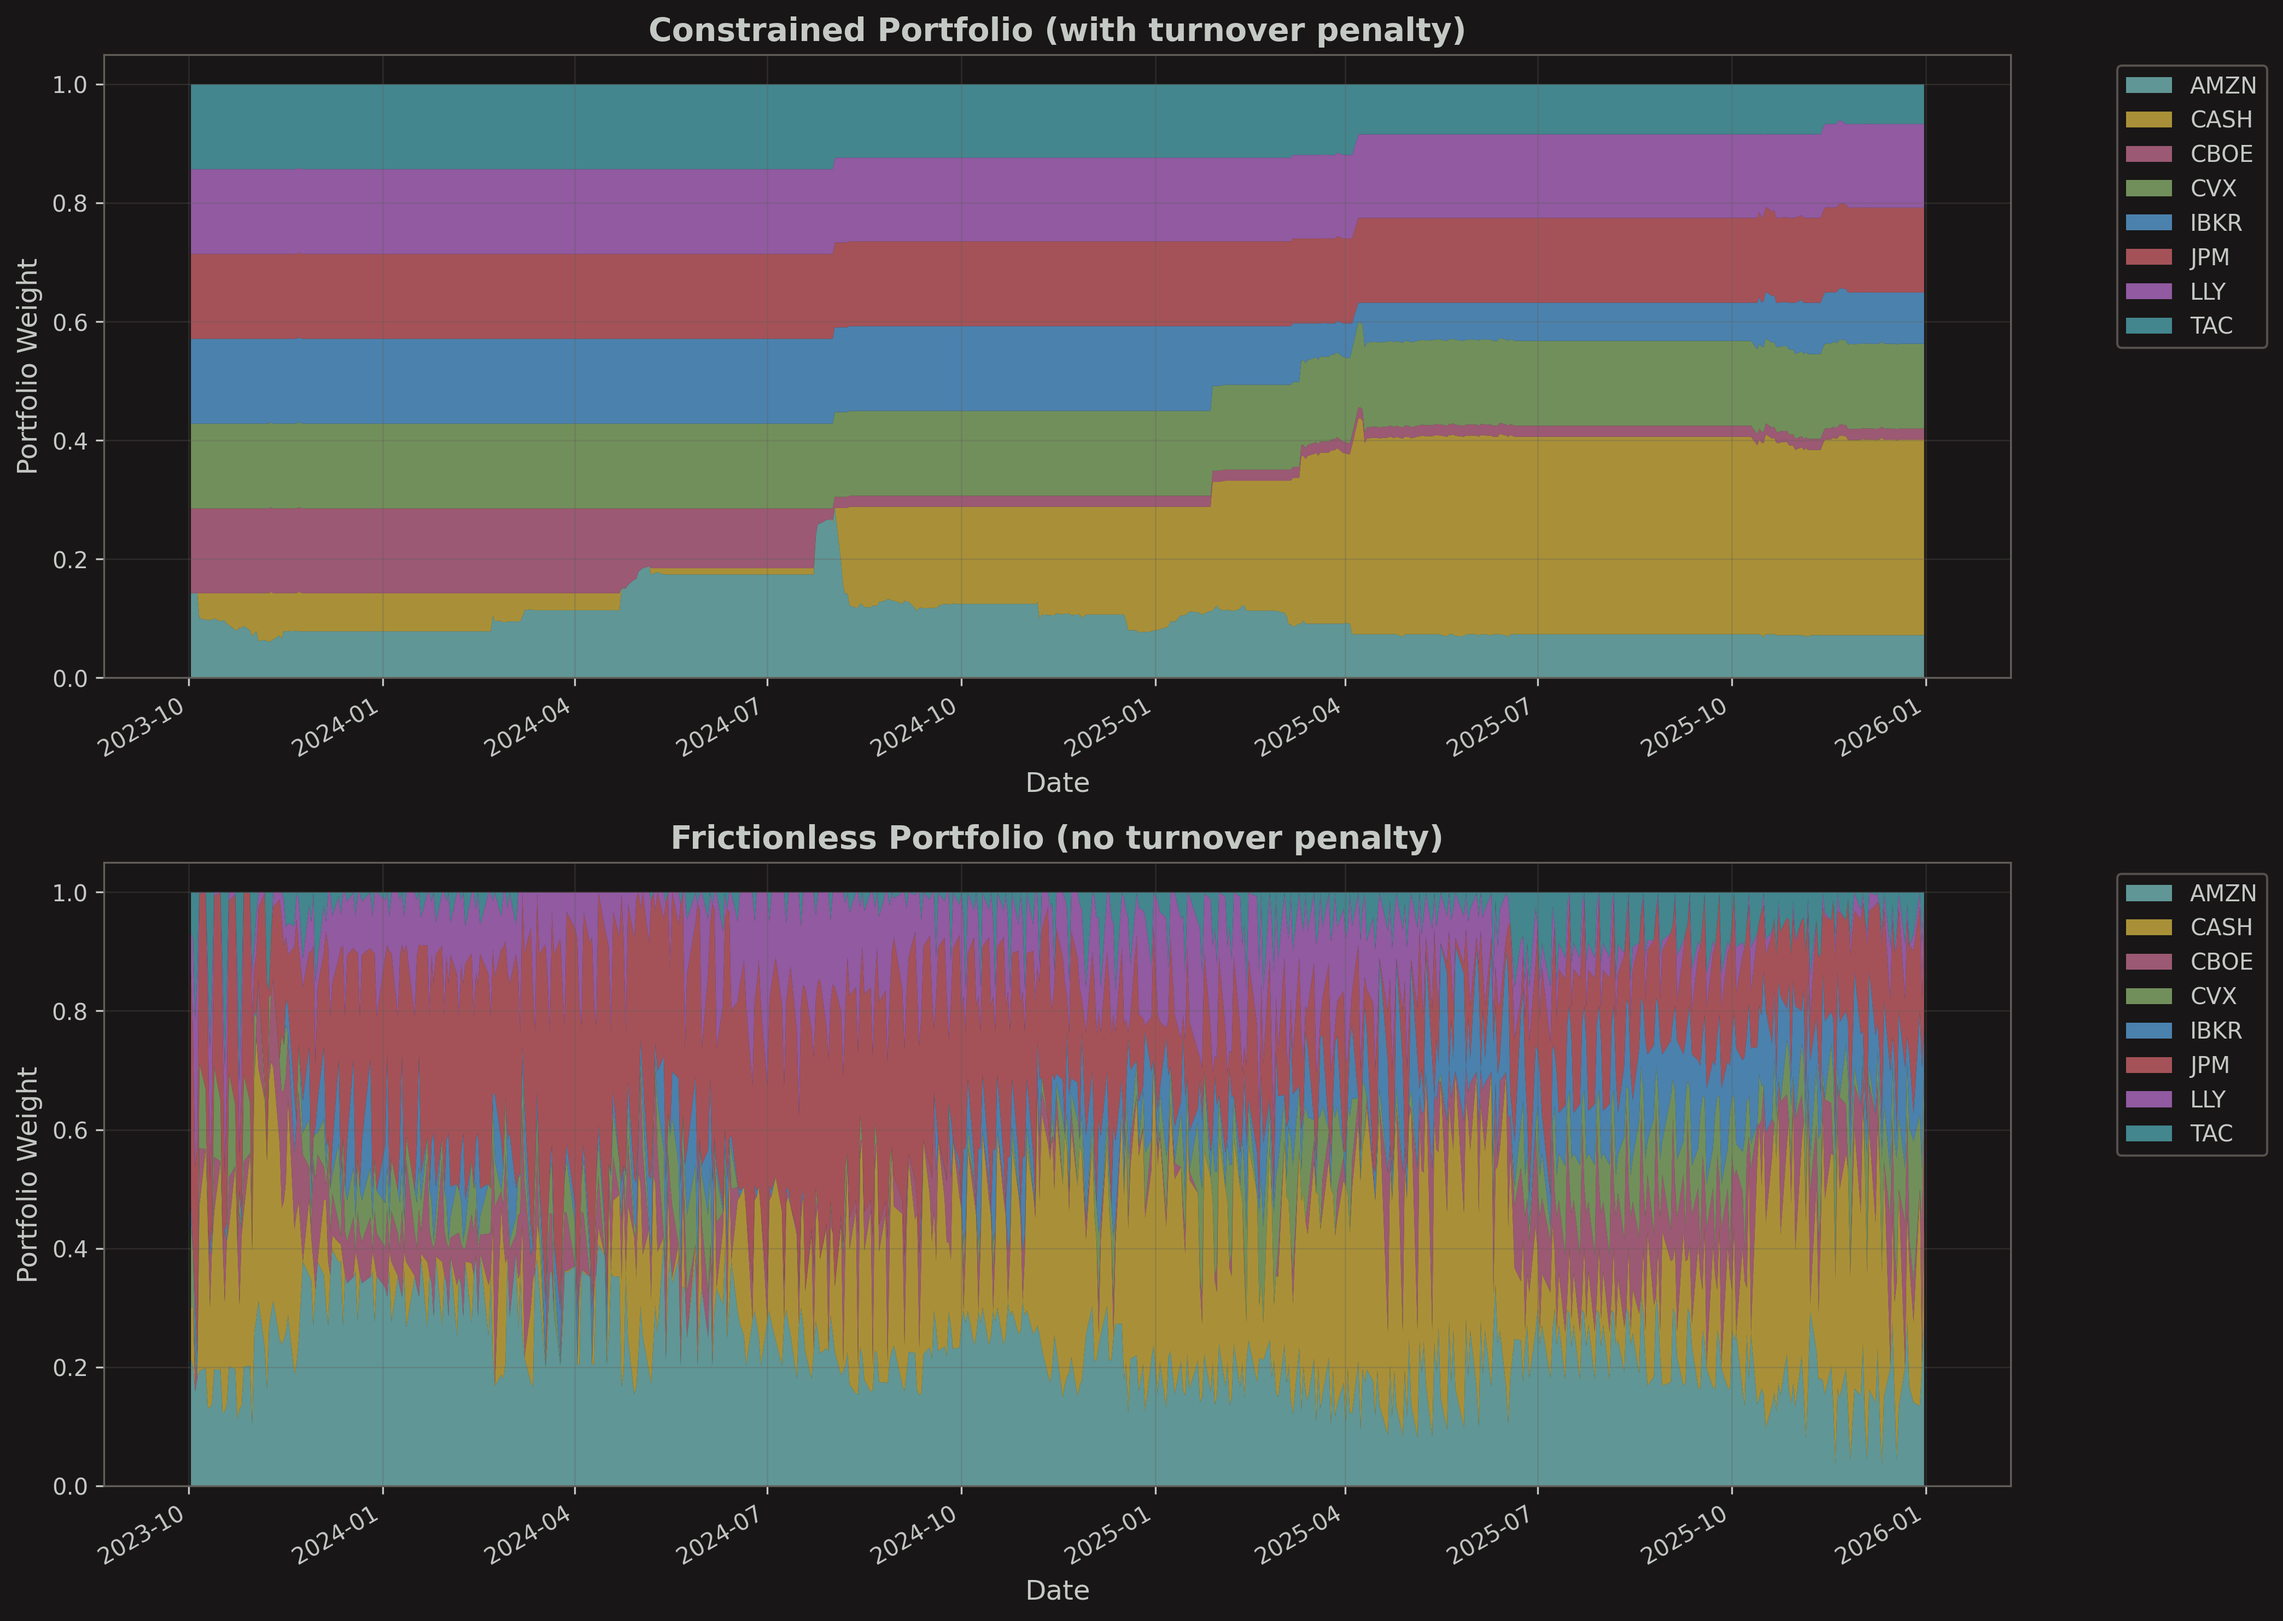
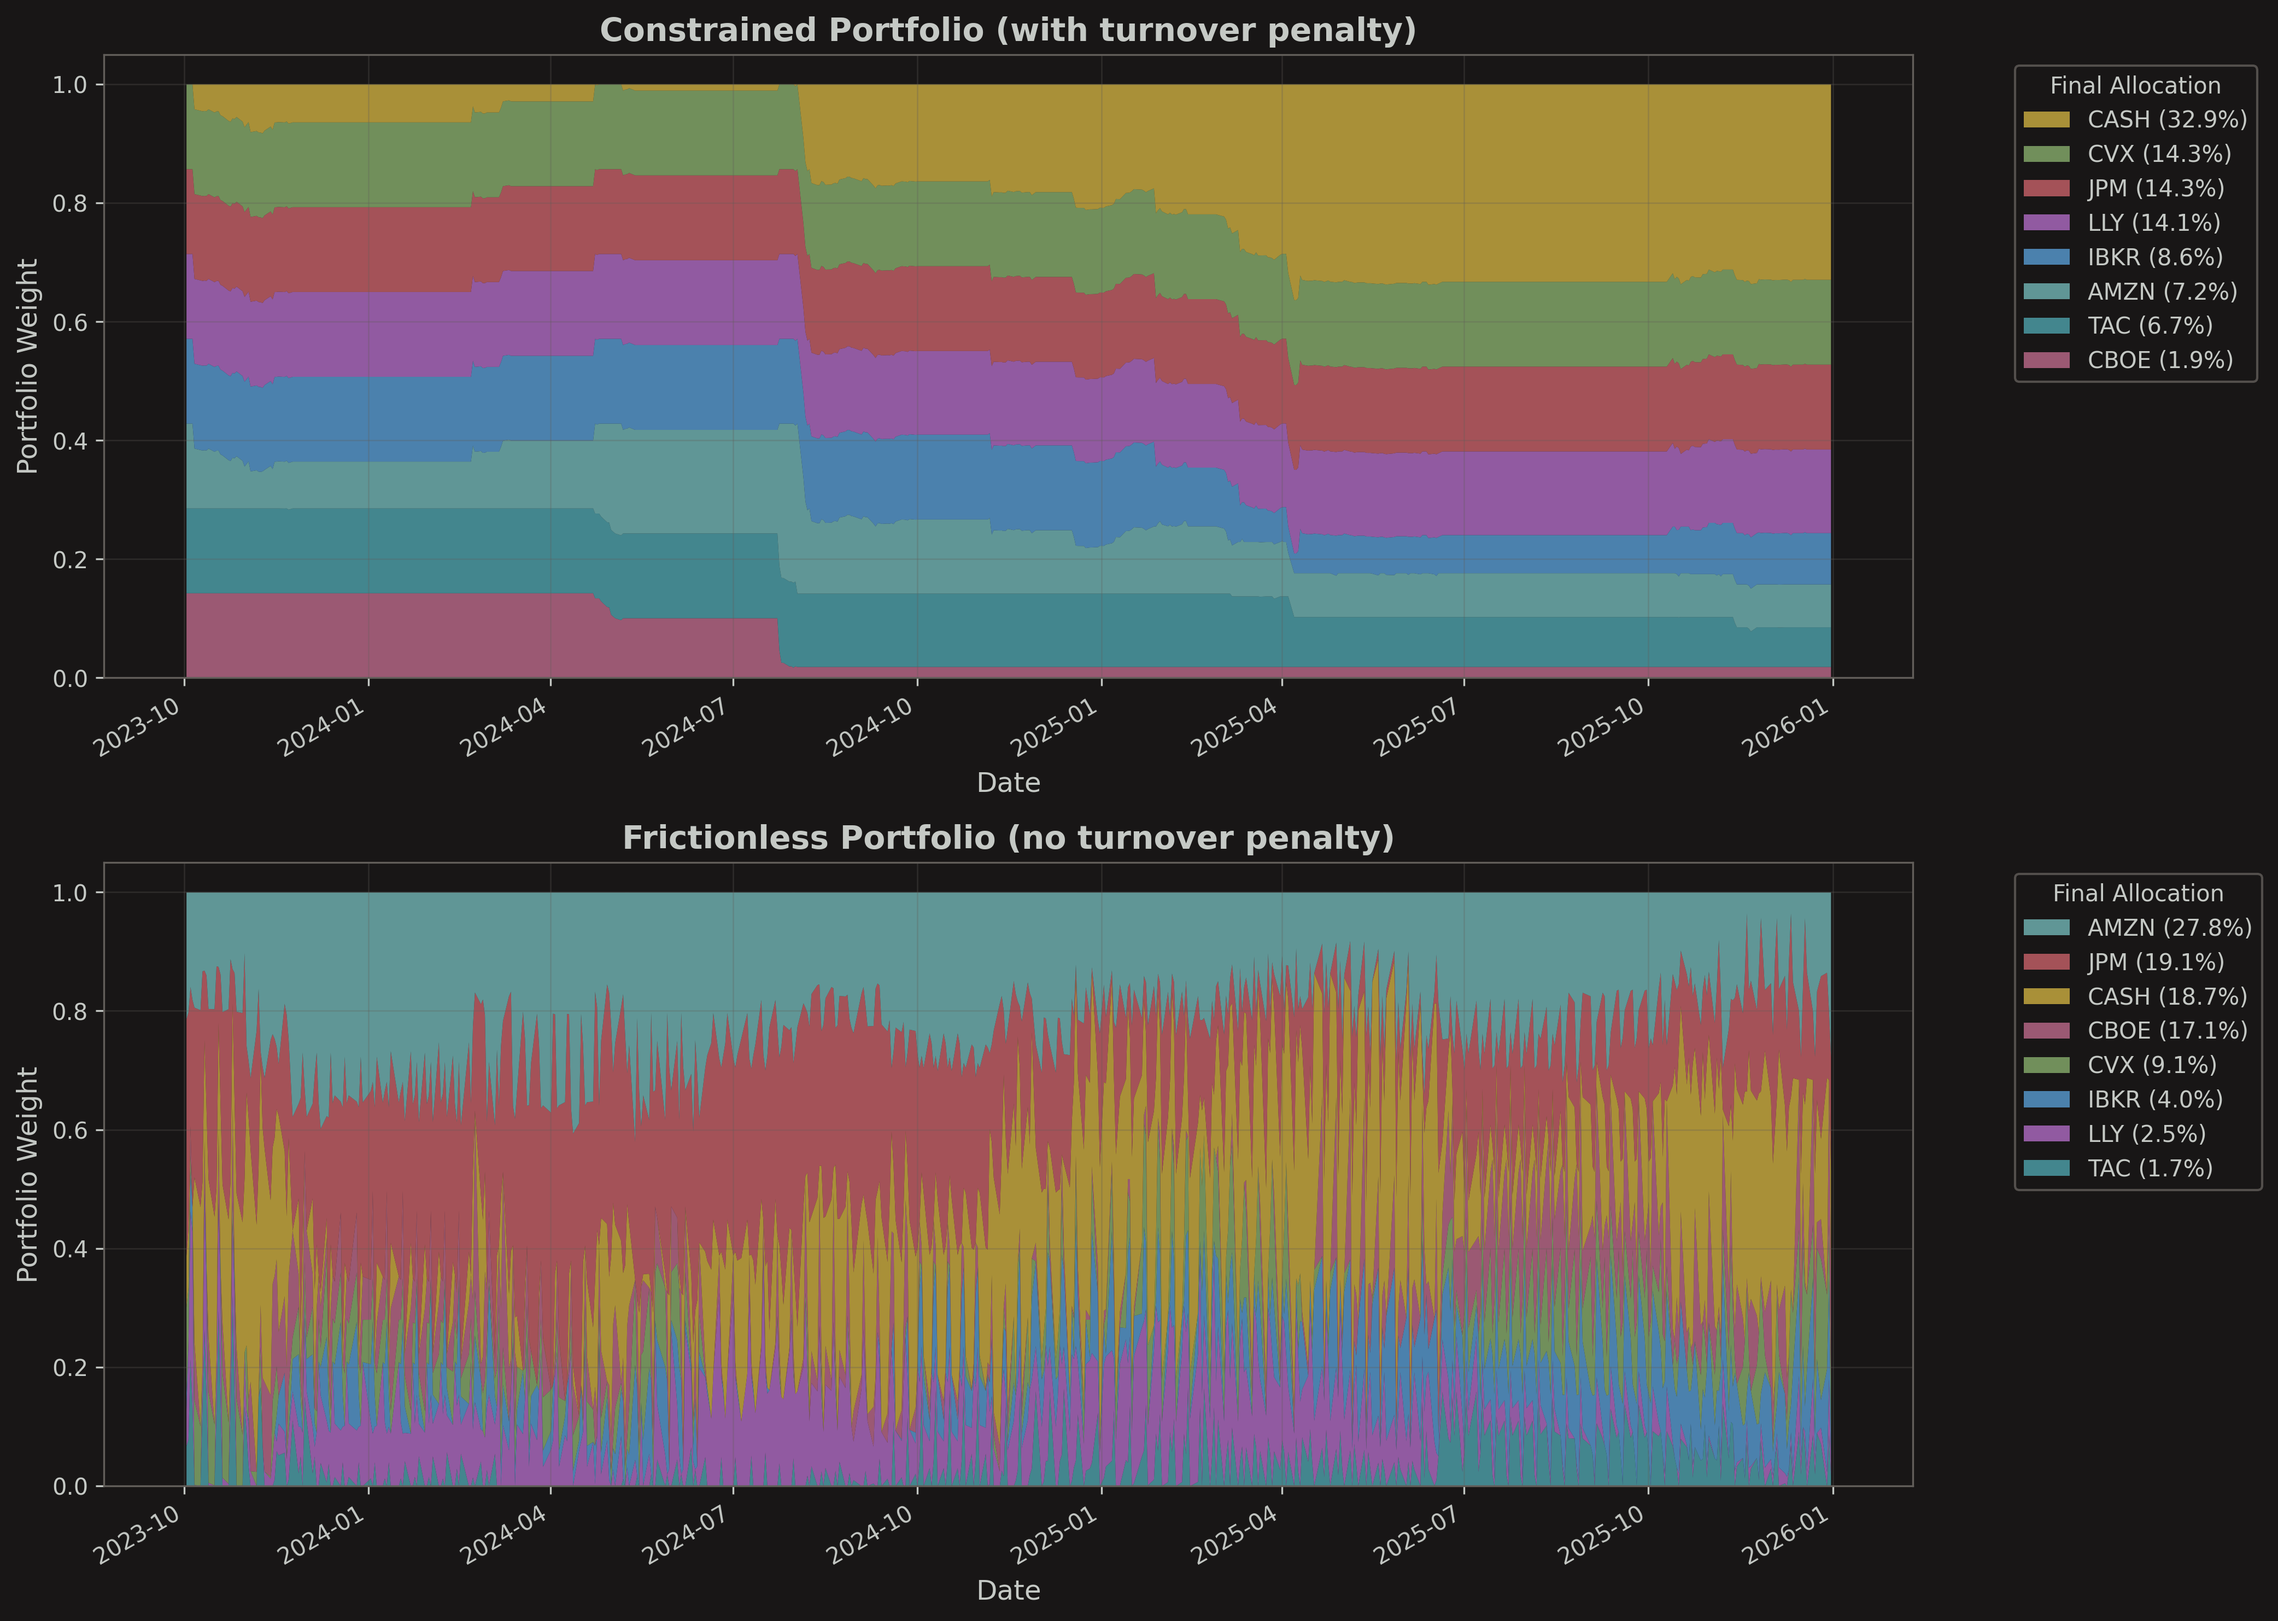
regime downside portfolio allocation percentages

diff --git a/pricing/regime_downside/python/viz/plot_results.py b/pricing/regime_downside/python/viz/plot_results.py
@@ -87,33 +87,84 @@ def plot_portfolio_weights(results_csv: Path, output_dir: Path | None = None):
         weights_constrained = df.pivot(
             index="date", columns="ticker", values="weight_constrained"
         )
-        weights_constrained.plot.area(ax=ax1, alpha=0.7, stacked=True, linewidth=0)
-        ax1.set_xlabel("Date", fontsize=12)
-        ax1.set_ylabel("Portfolio Weight", fontsize=12)
-        ax1.set_title("Constrained Portfolio (with turnover penalty)", fontsize=14, fontweight='bold')
-        ax1.legend(bbox_to_anchor=(1.05, 1), loc="upper left", fontsize=10)
-        ax1.grid(True, alpha=0.3, linewidth=0.6)
+        # Sort columns by final weight (descending) for consistent stacking order
+        final_weights_constrained = weights_constrained.iloc[-1]
+        sorted_cols_constrained = final_weights_constrained.sort_values(ascending=False).index
 
-        # Frictionless weights
+        # Get all unique tickers across both portfolios
         weights_frictionless = df.pivot(
             index="date", columns="ticker", values="weight_frictionless"
         )
-        weights_frictionless.plot.area(ax=ax2, alpha=0.7, stacked=True, linewidth=0)
+        all_tickers = list(set(weights_constrained.columns) | set(weights_frictionless.columns))
+
+        # Create consistent color map for all tickers
+        ticker_colors = {ticker: colors[i % len(colors)] for i, ticker in enumerate(sorted(all_tickers))}
+
+        # Reverse order so largest appears on top (matplotlib stacks bottom-to-top)
+        weights_constrained = weights_constrained[sorted_cols_constrained[::-1]]
+
+        # Assign colors in the order of columns
+        plot_colors_constrained = [ticker_colors[col] for col in weights_constrained.columns]
+        weights_constrained.plot.area(ax=ax1, alpha=0.7, stacked=True, linewidth=0, color=plot_colors_constrained)
+        ax1.set_xlabel("Date", fontsize=12)
+        ax1.set_ylabel("Portfolio Weight", fontsize=12)
+        ax1.set_title("Constrained Portfolio (with turnover penalty)", fontsize=14, fontweight='bold')
+
+        # Update legend labels with percentages and reverse to show largest first
+        handles1, labels1 = ax1.get_legend_handles_labels()
+        new_labels1 = [f"{ticker} ({final_weights_constrained[ticker]*100:.1f}%)"
+                       for ticker in labels1]
+        # Reverse so largest appears first in legend (matching visual top-to-bottom)
+        ax1.legend(list(reversed(handles1)), list(reversed(new_labels1)), bbox_to_anchor=(1.05, 1),
+                  loc="upper left", fontsize=10, title="Final Allocation")
+        ax1.grid(True, alpha=0.3, linewidth=0.6)
+
+        # Frictionless weights
+        final_weights_frictionless = weights_frictionless.iloc[-1]
+        sorted_cols_frictionless = final_weights_frictionless.sort_values(ascending=False).index
+
+        # Reverse order so largest appears on top (matplotlib stacks bottom-to-top)
+        weights_frictionless = weights_frictionless[sorted_cols_frictionless[::-1]]
+
+        # Assign colors in the order of columns
+        plot_colors_frictionless = [ticker_colors[col] for col in weights_frictionless.columns]
+        weights_frictionless.plot.area(ax=ax2, alpha=0.7, stacked=True, linewidth=0, color=plot_colors_frictionless)
         ax2.set_xlabel("Date", fontsize=12)
         ax2.set_ylabel("Portfolio Weight", fontsize=12)
         ax2.set_title("Frictionless Portfolio (no turnover penalty)", fontsize=14, fontweight='bold')
-        ax2.legend(bbox_to_anchor=(1.05, 1), loc="upper left", fontsize=10)
+
+        # Update legend labels with percentages and reverse to show largest first
+        handles2, labels2 = ax2.get_legend_handles_labels()
+        new_labels2 = [f"{ticker} ({final_weights_frictionless[ticker]*100:.1f}%)"
+                       for ticker in labels2]
+        # Reverse so largest appears first in legend (matching visual top-to-bottom)
+        ax2.legend(list(reversed(handles2)), list(reversed(new_labels2)), bbox_to_anchor=(1.05, 1),
+                  loc="upper left", fontsize=10, title="Final Allocation")
         ax2.grid(True, alpha=0.3, linewidth=0.6)
 
     else:
         # Old format: single portfolio
         fig, ax = plt.subplots(figsize=(12, 6))
         weights = df.pivot(index="date", columns="ticker", values="weight")
+        # Sort columns by final weight (descending) for consistent stacking order
+        final_weights = weights.iloc[-1]
+        sorted_cols = final_weights.sort_values(ascending=False).index
+
+        # Reverse order so largest appears on top (matplotlib stacks bottom-to-top)
+        weights = weights[sorted_cols[::-1]]
+
         weights.plot.area(ax=ax, alpha=0.7, stacked=True, linewidth=0)
         ax.set_xlabel("Date", fontsize=12)
         ax.set_ylabel("Portfolio Weight", fontsize=12)
         ax.set_title("Portfolio Allocation Over Time", fontsize=14, fontweight='bold')
-        ax.legend(bbox_to_anchor=(1.05, 1), loc="upper left", fontsize=10)
+
+        # Update legend labels with percentages and reverse to show largest first
+        handles, labels = ax.get_legend_handles_labels()
+        new_labels = [f"{ticker} ({final_weights[ticker]*100:.1f}%)"
+                     for ticker in labels]
+        # Reverse so largest appears first in legend (matching visual top-to-bottom)
+        ax.legend(list(reversed(handles)), list(reversed(new_labels)), bbox_to_anchor=(1.05, 1),
+                 loc="upper left", fontsize=10, title="Final Allocation")
         ax.grid(True, alpha=0.3, linewidth=0.6)
 
     plt.tight_layout()
